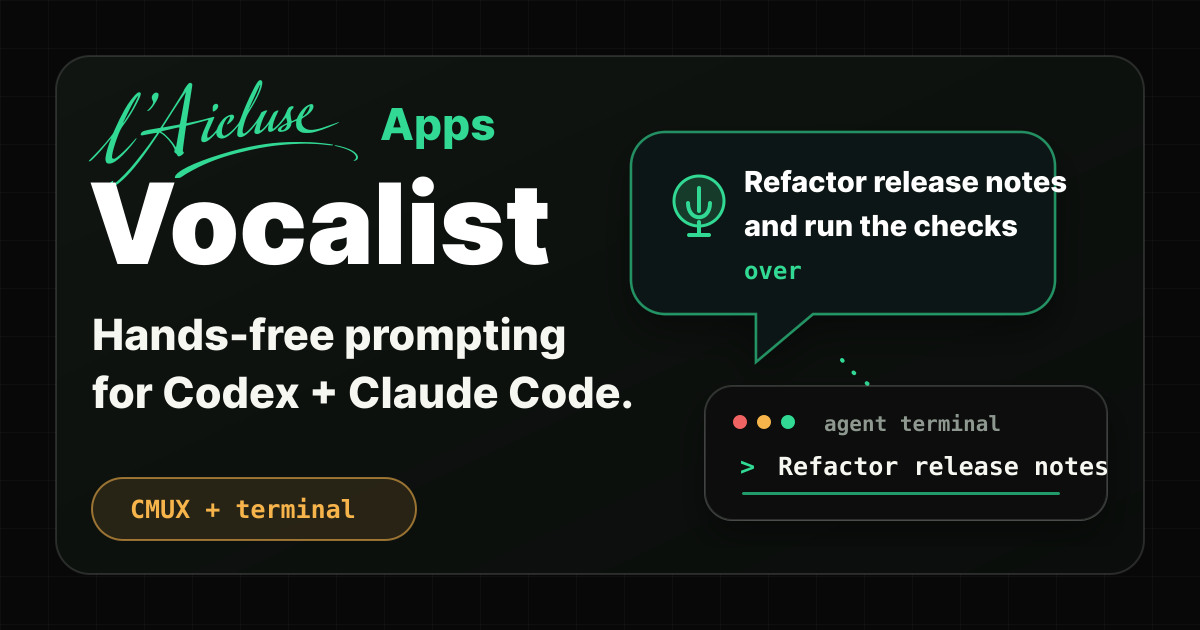
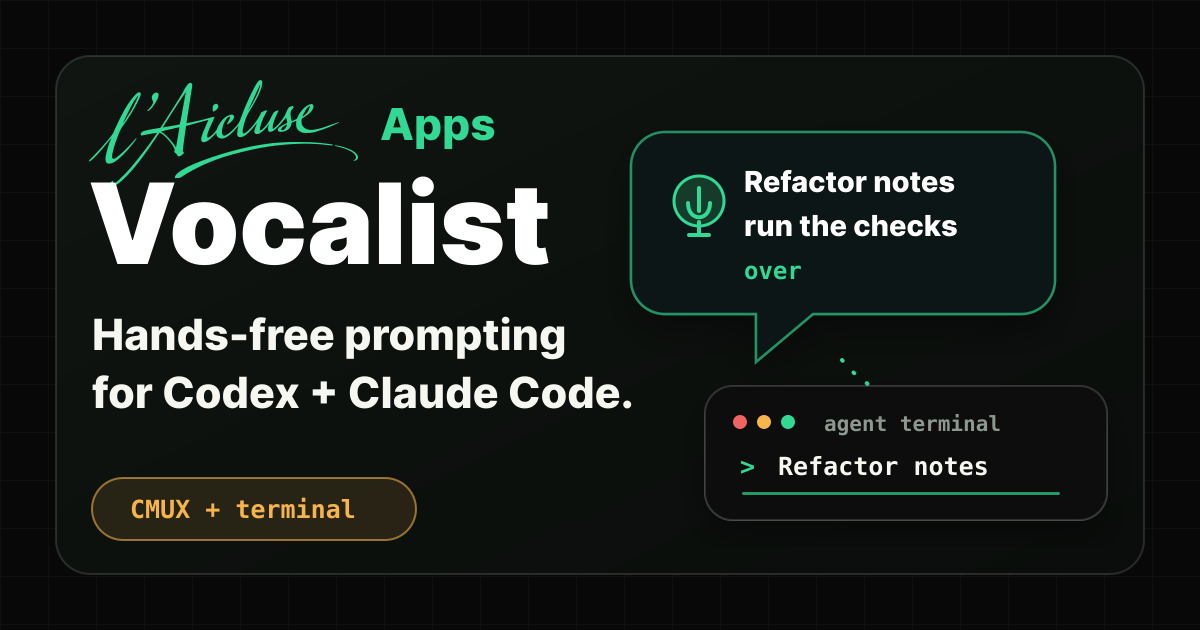
Keep Vocalist social card text inside bounds
WHY: The previous share card let the speech-bubble copy overflow in Telegram previews; the generator now uses shorter copy and marks bounded SVG text for regression checks.

Tests: node bin/build-pages .

Tests: bats test/build-pages/apps.bats test/build-pages/og-card.bats

Tests: node --check bin/build-pages

Tests: node --check test/build-pages/assert-svg-text-bounds.js

Tests: git diff --check -- bin/build-pages docs/assets/vocalist-og-card.svg docs/vocalist/index.html test/build-pages/apps.bats test/build-pages/assert-svg-text-bounds.js

Visual: docs/assets/vocalist-og-image.png

PII-Doublecheck: yes

Changed region(s): [[0.6167, 0.2714, 0.8942, 0.3921], [0.74, 0.7238, 0.925, 0.754]]

diff --git a/test/build-pages/assert-svg-text-bounds.js b/test/build-pages/assert-svg-text-bounds.js
@@ -1,0 +1,46 @@
+#!/usr/bin/env node
+
+const fs = require("fs");
+
+const svgPath = process.argv[2];
+if (!svgPath) {
+	console.error("usage: assert-svg-text-bounds.js <svg>");
+	process.exit(2);
+}
+
+const svg = fs.readFileSync(svgPath, "utf8");
+
+function attribute(markup, name) {
+	const match = markup.match(new RegExp(`\\b${name}="([^"]+)"`));
+	return match ? match[1] : null;
+}
+
+let checked = 0;
+const failures = [];
+const textPattern = /<text\b([^>]*)>([^<]*)<\/text>/g;
+
+for (const match of svg.matchAll(textPattern)) {
+	const maxWidth = Number(attribute(match[1], "data-max-width"));
+	if (!maxWidth) continue;
+
+	checked += 1;
+	const fontSize = Number(attribute(match[1], "font-size"));
+	const widthFactor = Number(attribute(match[1], "data-width-factor"));
+	const label = match[2].replace(/&[^;]+;/g, "x");
+	const estimatedWidth = label.length * fontSize * widthFactor;
+
+	if (!fontSize || !widthFactor) {
+		failures.push(`${label}: missing font-size or data-width-factor`);
+	} else if (estimatedWidth > maxWidth) {
+		failures.push(`${label}: ${estimatedWidth.toFixed(1)} > ${maxWidth}`);
+	}
+}
+
+if (checked === 0) {
+	failures.push("no data-max-width text elements found");
+}
+
+if (failures.length > 0) {
+	console.error(failures.join("\n"));
+	process.exit(1);
+}

diff --git a/docs/vocalist/index.html b/docs/vocalist/index.html
@@ -16,8 +16,8 @@
 		<meta property="og:url" content="https://laicluse.com/vocalist/">
 		<meta property="og:title" content="Vocalist">
 		<meta property="og:description" content="A Mac menu-bar app for speaking prompts to Codex or Claude Code.">
-		<meta property="og:image" content="https://laicluse.com/assets/vocalist-og-image.png?v=3af22ed680">
-		<meta property="og:image:secure_url" content="https://laicluse.com/assets/vocalist-og-image.png?v=3af22ed680">
+		<meta property="og:image" content="https://laicluse.com/assets/vocalist-og-image.png?v=8543f74354">
+		<meta property="og:image:secure_url" content="https://laicluse.com/assets/vocalist-og-image.png?v=8543f74354">
 		<meta property="og:image:type" content="image/png">
 		<meta property="og:image:width" content="1200">
 		<meta property="og:image:height" content="630">
@@ -26,7 +26,7 @@
 		<meta name="twitter:card" content="summary_large_image">
 		<meta name="twitter:title" content="Vocalist">
 		<meta name="twitter:description" content="A Mac menu-bar app for speaking prompts to Codex or Claude Code.">
-		<meta name="twitter:image" content="https://laicluse.com/assets/vocalist-og-image.png?v=3af22ed680">
+		<meta name="twitter:image" content="https://laicluse.com/assets/vocalist-og-image.png?v=8543f74354">
 		<meta name="twitter:image:alt" content="Vocalist app share card">
 
 		<link rel="stylesheet" href="../styles.css?v=016d163975">